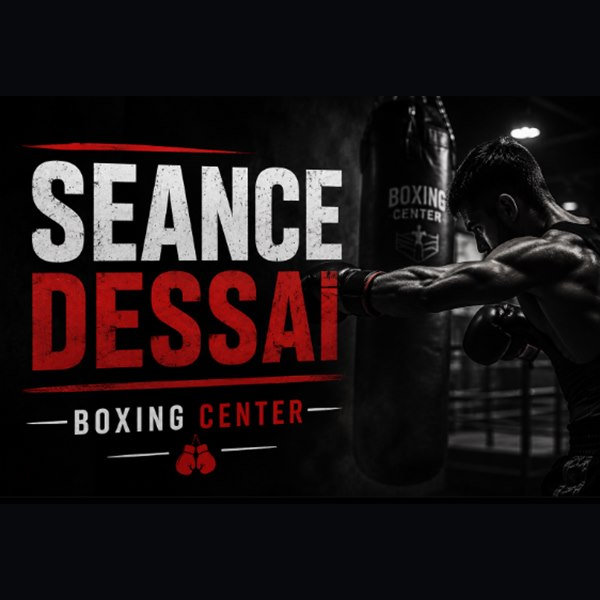
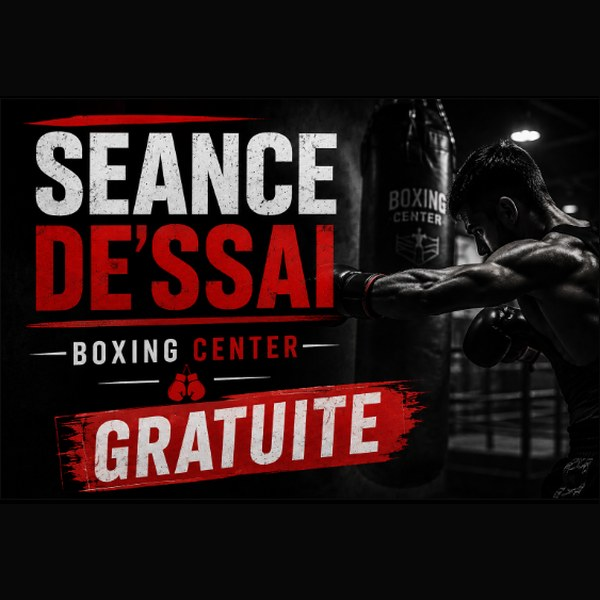
fix: retours copy séance offerte et visuel d'essai Boxing Center

diff --git a/src/js/form.js b/src/js/form.js
@@ -69,7 +69,8 @@ const STEPS = [
   },
   {
     id: "identite", kind: "champs",
-    q: "Comment on t'appelle ?",
+    q: "On t'inscrit sous quel nom ?",
+    why: "Prénom et nom — c'est comme ça qu'on t'appelle dans le coin.",
     fields: [
       { k: "prenom", l: "Prénom", t: "text", ac: "given-name", ph: "Camille" },
       { k: "nom", l: "Nom", t: "text", ac: "family-name", ph: "Durand" },
@@ -77,8 +78,8 @@ const STEPS = [
   },
   {
     id: "contact", kind: "champs",
-    q: "Où on t'envoie la confirmation ?",
-    why: "Un email pour ta confirmation. Un numéro au cas où le planning bouge. On n'appelle pas pour vendre.",
+    q: "Où on t'envoie le laissez-passer ?",
+    why: "Un email pour confirmer. Un numéro si le planning bouge. On n'appelle pas pour vendre.",
     fields: [
       { k: "email", l: "Email", t: "email", ac: "email", ph: "camille@exemple.fr" },
       { k: "tel", l: "Téléphone mobile", t: "tel", ac: "tel", ph: "06 12 34 56 78" },
@@ -106,19 +107,19 @@ const STEPS = [
   {
     id: "ami", kind: "ami", submit: "ami",
     q: "Tu viens avec quelqu'un ?",
-    why: "Ta fiche est en cours de création. Sa séance est offerte aussi — tu peux ajouter quelqu'un maintenant.",
+    why: "Profites-en pour offrir une séance d'essai offerte à un de tes amis, tu peux ajouter quelqu'un maintenant.",
   },
 ];
 
 const AMI_FIELDS = [
   ["a_prenom", "Son prénom", "text", "Alex", "prenom"],
   ["a_nom", "Son nom", "text", "Martin", "nom"],
-  ["a_email", "Son email (si tu le connais)", "email", "alex@exemple.fr", "email_ami"],
-  ["a_tel", "Son mobile", "tel", "06 98 76 54 32", "tel"],
-  ["a_naissance", "Sa date de naissance (si tu la connais)", "date", "", "naissance_ami"],
-  ["a_adresse", "Son adresse (si tu la connais)", "text", "12 rue des Lilas", "adresse_ami"],
-  ["a_cp", "Son code postal", "text", "31000", "cp_ami"],
-  ["a_ville", "Sa ville", "text", "Toulouse", "ville_ami"],
+  ["a_tel", "Son numéro", "tel", "06 98 76 54 32", "tel_ami"],
+  ["a_email", "Son email (si tu l'as)", "email", "alex@exemple.fr", "email_ami"],
+  ["a_naissance", "Sa date de naissance (si tu l'as)", "date", "", "naissance_ami"],
+  ["a_adresse", "Son adresse (si tu l'as)", "text", "12 rue des Lilas", "adresse_ami"],
+  ["a_cp", "Son code postal (si tu l'as)", "text", "31000", "cp_ami"],
+  ["a_ville", "Sa ville (si tu l'as)", "text", "Toulouse", "ville_ami"],
 ];
 
 const RX_MAIL = /^[^\s@]+@[^\s@]+\.[a-z]{2,}$/i;
@@ -137,7 +138,10 @@ function invalid(rule, val) {
       if (!v) return "";
       return RX_MAIL.test(v) ? "" : "Cet email n'a pas l'air valide — tu peux aussi le laisser vide.";
     case "tel":
-      return !v ? "Un numéro de mobile, au cas où le planning change."
+      return !v ? "Un numéro de mobile, au cas où le planning bouge."
+        : !RX_TEL.test(v) ? "Format attendu : 06 12 34 56 78 ou +33 6 12 34 56 78." : "";
+    case "tel_ami":
+      return !v ? "Son numéro, pour lui ouvrir sa séance offerte."
         : !RX_TEL.test(v) ? "Format attendu : 06 12 34 56 78 ou +33 6 12 34 56 78." : "";
     case "naissance":
     case "naissance_ami": {
@@ -217,18 +221,18 @@ function stepBody(st) {
       <em class="field__err" role="alert"></em>
     </div>
     <div class="fields fields--2" id="ami-fields"${aDeux ? "" : " hidden"}>
-      <p class="step__why" style="grid-column:1/-1">Ses infos pour sa propre fiche. Adresse, code postal, ville et date de naissance : seulement si tu les as, sinon on mettra les valeurs par défaut.</p>
+      <p class="step__why" style="grid-column:1/-1">${fr("Pour lui ouvrir sa séance : prénom, nom et numéro, c'est tout ce qu'il faut. Email, date de naissance, adresse : seulement si tu les as.")}</p>
       ${AMI_FIELDS.map(
         ([k, l, t, ph]) =>
           `<label class="field${k === "a_adresse" ? " field--wide" : ""}" data-f="${k}"><span>${esc(l)}</span><input type="${t}" data-k="${k}" ${ph ? `placeholder="${esc(ph)}"` : ""} value="${esc((state.ami && state.ami[k]) || "")}" /><em class="field__err" role="alert"></em></label>`
       ).join("")}
-      <label class="field" data-f="a_sexe"><span>Son sexe</span>
-        <select data-k="a_sexe"><option value="">Choisir…</option>
+      <label class="field" data-f="a_sexe"><span>Son sexe (si tu l'as)</span>
+        <select data-k="a_sexe"><option value="">Pas besoin</option>
           ${[["F", "Femme"], ["H", "Homme"], ["A", "Ne se prononce pas"]]
             .map(([v, l]) => `<option value="${v}"${state.ami && state.ami.a_sexe === v ? " selected" : ""}>${l}</option>`)
             .join("")}
         </select><em class="field__err" role="alert"></em></label>
-      <p class="step__why" style="grid-column:1/-1">Sa salle et son jour reprennent les tiens. Vous pourrez les changer avec l'équipe sur place.</p>
+      <p class="step__why" style="grid-column:1/-1">${fr("Vous n'êtes pas obligés d'arriver ensemble : sa séance reste offerte, même s'il passe un autre jour.")}</p>
     </div>`;
 }
 
@@ -330,6 +334,20 @@ export function mountForm(root, onChange) {
   const pips = [...root.querySelectorAll("#form-pips i")];
   const screens = [...form.querySelectorAll("[data-step]")];
   let started = false;
+  let lastPaintedStep = state.step;
+
+  const scrollEtapeEnHaut = () => {
+    const current =
+      form.querySelector(".step.is-on") ||
+      (state.step >= STEPS.length ? form.querySelector(".done") : null) ||
+      document.getElementById("formulaire");
+    const html = document.documentElement;
+    const prev = html.style.scrollBehavior;
+    html.style.scrollBehavior = "auto";
+    const y = current.getBoundingClientRect().top + window.scrollY - 8;
+    window.scrollTo(0, Math.max(0, y));
+    html.style.scrollBehavior = prev;
+  };
 
   const paint = () => {
     screens.forEach((s) => {
@@ -351,6 +369,10 @@ export function mountForm(root, onChange) {
     const box = form.querySelector("#ami-fields");
     if (box) box.hidden = !aDeux;
     onChange && onChange(state);
+    if (state.step !== lastPaintedStep) {
+      lastPaintedStep = state.step;
+      requestAnimationFrame(scrollEtapeEnHaut);
+    }
   };
 
   const begin = () => {
@@ -412,9 +434,6 @@ export function mountForm(root, onChange) {
       showErr(k, msg);
       if (msg) ok = false;
     });
-    const sx = invalid("sexe", state.ami.a_sexe);
-    showErr("a_sexe", sx);
-    if (sx) ok = false;
     return ok;
   };
 
@@ -435,7 +454,7 @@ export function mountForm(root, onChange) {
       : (jourTxt ? `À ${jourTxt}, ${prenom}.` : `À très vite, ${prenom}.`);
 
     root.querySelector("#done-p").textContent = aDeux
-      ? `${prenom}, vous venez à deux. Ta séance d'essai est enregistrée${salleTxt}, avec ${amiPrenom || "un(e) ami(e)"}. Présentez-vous ensemble à l'accueil en tenue de sport : le matériel est prêté. La séance de ${amiPrenom || "ton ami(e)"} est offerte aussi.`
+      ? `${prenom}, ta séance d'essai est enregistrée${salleTxt}, et celle de ${amiPrenom || "ton ami(e)"} aussi. Vous n'êtes pas obligés d'arriver ensemble : sa séance reste offerte, même s'il passe un autre jour. Tenue de sport, le matériel est prêté.`
       : `${prenom}, tu viens seul. Ta séance d'essai est enregistrée${salleTxt}. Présente-toi à l'accueil en tenue de sport : le matériel est prêté.`;
 
     root.querySelector("#done-recap").innerHTML = [
@@ -452,7 +471,7 @@ export function mountForm(root, onChange) {
     const note = root.querySelector("#done-note");
     if (note) {
       note.textContent = aDeux
-        ? "Un email de confirmation part vers chacune de vos boîtes. Présentez-vous ensemble à l'accueil : les deux séances sont offertes, habituellement à 10 €."
+        ? "Un email part vers chacune de vos boîtes. Les deux séances sont offertes, habituellement à 10 € — même si vous ne venez pas le même jour."
         : "Un email de confirmation part vers ta boîte. Présente-toi à l'accueil : tu viens seul, la séance est offerte, habituellement à 10 €.";
     }
 

diff --git a/lib/email.js b/lib/email.js
@@ -54,10 +54,10 @@ function confirmationHeadline({ prenom, jourNom, amiPrenom, hostPrenom }) {
 function confirmationLead({ prenom, salleLabel, amiPrenom, hostPrenom }) {
   const salle = salleLabel ? ` à ${salleLabel}` : '';
   if (hostPrenom) {
-    return `${prenom}, ce n’est pas un mail de confirmation pour ${hostPrenom} : c’est le tien. ${hostPrenom} vient de t’inscrire à une séance d’essai offerte${salle}. Tu n’as rien à régler. Présentez-vous ensemble à l’accueil.`;
+    return `${prenom}, ${hostPrenom} vient de t’offrir une séance d’essai${salle}. Tu n’as rien à régler. Vous n’êtes pas obligés de venir le même jour : ta séance reste offerte, même si tu passes un autre moment.`;
   }
   if (amiPrenom) {
-    return `${prenom}, ta séance d’essai est confirmée${salle}, avec ${amiPrenom}. ${amiPrenom} reçoit un mail d’invitation de son côté — pas le même que celui-ci.`;
+    return `${prenom}, ta séance d’essai est confirmée${salle}, et celle de ${amiPrenom} aussi. ${amiPrenom} reçoit son propre mail. Vous n’êtes pas obligés d’arriver ensemble : sa séance reste offerte.`;
   }
   return `Ta séance d’essai est enregistrée${salle}.`;
 }
@@ -100,7 +100,7 @@ export function confirmationText(input = {}) {
       `Jour prévu : ${jourLabel}`,
       'À régler : 0 €',
       '',
-      'Présentez-vous ensemble à l’accueil, en tenue de sport. Le matériel est prêté.',
+      'Présente-toi à l’accueil en tenue de sport. Le matériel est prêté. Une bouteille d’eau suffit. Vous n’êtes pas obligés de venir le même jour : ta séance reste offerte.',
       '',
       'L’équipe Boxing Center',
     ].join('\n');
@@ -116,7 +116,9 @@ export function confirmationText(input = {}) {
     '',
     'À régler sur place : 0 € — au lieu de 10 €.',
     '',
-    'Présente-toi à l’accueil en tenue de sport. Le matériel est prêté. Une bouteille d’eau suffit.',
+    amiPrenom
+      ? 'Présente-toi à l’accueil en tenue de sport. Le matériel est prêté. Une bouteille d’eau suffit. Vous n’êtes pas obligés d’arriver ensemble : sa séance reste offerte, même s’il passe un autre jour.'
+      : 'Présente-toi à l’accueil en tenue de sport. Le matériel est prêté. Une bouteille d’eau suffit.',
     '',
     'L’équipe Boxing Center',
   ].join('\n');
@@ -199,7 +201,7 @@ export function confirmationHtml(input = {}) {
           </tr>
           <tr>
             <td style="padding:0 32px 28px;font-family:Arial,Helvetica,sans-serif;font-size:14px;line-height:1.6;color:#c8cdd8;">
-              ${guest ? 'Présentez-vous ensemble à l\'accueil. L\'équipe vous attend.' : 'Présente-toi à l\'accueil. L\'équipe t\'attend.'}
+              ${guest ? 'Tu n’es pas obligé(e) de venir le même jour que la personne qui t’a inscrit(e) : ta séance reste offerte. L’équipe t’attend.' : 'Présente-toi à l\'accueil. L\'équipe t\'attend.'}
             </td>
           </tr>
           <tr>

diff --git a/test/email.test.js b/test/email.test.js
@@ -23,7 +23,7 @@ describe('mail de confirmation', () => {
     const payload = confirmationPayloadFromData(data);
     const html = confirmationHtml(payload);
     assert.match(html, /À lundi, Yavol et Gojipe/);
-    assert.match(html, /avec Gojipe/);
+    assert.match(html, /avec Gojipe|et celle de Gojipe/);
     assert.match(html, /0 €/);
     assert.match(html, /Boxing Center Ramonville/);
     assert.match(html, /Lundi \(17\/08\/2026\)/);
@@ -38,7 +38,8 @@ describe('mail de confirmation', () => {
     const payload = confirmationPayloadFromData(data, { asFriend: true });
     const html = confirmationHtml(payload);
     assert.match(html, /Yavol t’a inscrit/);
-    assert.match(html, /Gojipe, ce n’est pas un mail de confirmation pour Yavol/);
+    assert.match(html, /offrir une séance d’essai/);
+    assert.match(html, /pas obligés de venir le même jour/);
     assert.match(html, /Invitation — séance offerte/);
     assert.match(html, /Inscrit\(e\) par/);
     assert.doesNotMatch(html, />Accompagné</);
@@ -46,7 +47,7 @@ describe('mail de confirmation', () => {
     assert.notEqual(confirmationSubject(payload), confirmationSubject(host));
     assert.notEqual(confirmationHtml(payload), confirmationHtml(host));
     assert.match(confirmationSubject(payload), /Yavol t’a inscrit/);
-    assert.match(confirmationText(payload), /t’inscrire/);
+    assert.match(confirmationText(payload), /t’offrir une séance/);
   });
 
   it('HTML solo : un seul prénom', () => {

diff --git a/index.html b/index.html
@@ -124,7 +124,7 @@
         {
           "@type": "Question",
           "name": "Peut-on venir accompagné à la séance d'essai ?",
-          "acceptedAnswer": { "@type": "Answer", "text": "Oui. Tu peux venir accompagné, et la séance de la personne qui vient avec toi est offerte aussi." }
+          "acceptedAnswer": { "@type": "Answer", "text": "Oui. Tu peux offrir une séance d'essai à un ami : sa séance est offerte aussi. Vous n'êtes pas obligés de venir le même jour : sa séance reste offerte, même s'il passe un autre moment." }
         },
         {
           "@type": "Question",
@@ -207,7 +207,7 @@
     <div class="dock__in">
       <div class="dock__state">
         <span class="dock__price"><s>10 €</s><b>0 €</b></span>
-        <span class="dock__meta" id="dock-meta">2 min · sans engagement</span>
+        <span class="dock__meta" id="dock-meta">sans engagement</span>
       </div>
       <button type="button" class="btn btn--primary dock__cta" data-open-form>
         Je réserve ma séance<span class="btn__arrow" aria-hidden="true"></span>

diff --git a/test/e2e/seance-offerte.spec.js b/test/e2e/seance-offerte.spec.js
@@ -116,9 +116,9 @@ test.describe('tunnel inscription', () => {
     await expect(page.locator('#done-h')).toContainText(/Camille et Alex/i, { timeout: 15000 });
     expect(payloads.at(-1)?.ami?.prenom).toBe('Alex');
     expect(payloads.at(-1)?.ami?.naissance || '').toBe('');
-    await expect(page.locator('#done-p')).toContainText(/vous venez à deux/i);
+    await expect(page.locator('#done-p')).toContainText(/reste offerte/i);
     await expect(page.locator('#done-recap dd').nth(3)).toContainText(/Oui — tu viens avec Alex/i);
-    await expect(page.locator('#done-note')).toContainText(/ensemble/i);
+    await expect(page.locator('#done-note')).toContainText(/même jour|offertes/i);
     const photo = page.locator('#done-media img');
     await expect(photo).toBeVisible();
     await expect(photo).toHaveAttribute('src', /seance-essai-gratuite/);

diff --git a/src/js/data.js b/src/js/data.js
@@ -11,7 +11,7 @@ export const OFFRE = {
   prixHabituel: "10 €",
   prixOffert: "0 €",
   ctaPrimaire: "Je réserve ma séance offerte",
-  dockNote: "2 min · sans engagement",
+  dockNote: "sans engagement",
   /* C1 — le réseau garde l'essai à 10 €. Sans cette phrase, le 0 € de
      cette page détruit le tarif des cinq salles. */
   cadrageTitre: "Pourquoi celle-ci est offerte",
@@ -57,7 +57,7 @@ export const HEROS = {
     kicker: "Tu as scanné. Voici ton laissez-passer.",
     titre: ["Ta séance", "est offerte."],
     lede:
-      "Ce titre d'accès vaut une séance d'essai dans la salle de ton choix. Il se complète en deux minutes et t'attend à l'accueil.",
+      "Ce titre d'accès vaut une séance d'essai dans la salle de ton choix. Il t'attend à l'accueil.",
     img: "femme-garde",
   },
   c: {

diff --git a/src/js/main.js b/src/js/main.js
@@ -321,9 +321,9 @@ function inscriptionHTML(dir) {
     <span class="sect__mark" aria-hidden="true">05</span>
     <div class="shell">
       <div class="sect__head" data-rv>
-        <span class="eyebrow" data-round="Dernier round">Deux minutes</span>
+        <span class="eyebrow" data-round="Dernier round">Ta place dans le coin</span>
         <h2>${lignes(dir === "b" ? "Complète<br>ton laissez-passer." : "Prends ta place<br>dans le coin.")}</h2>
-        <p>${fr("Six écrans courts. Les deux premiers se touchent — on ne tape rien avant d'avoir dit oui deux fois. Tu peux revenir en arrière à tout moment.")}</p>
+        <p>${fr("Salle, jour, puis tes infos. Tu peux revenir en arrière à tout moment.")}</p>
       </div>
       <div class="form-layout" data-rv>
         ${formHTML()}

diff --git a/test/inscription.test.js b/test/inscription.test.js
@@ -53,6 +53,15 @@ describe('validateInscription', () => {
     assert.equal(r.data.ami.email, '');
   });
 
+  it('accepte un ami avec seulement prénom, nom et numéro', () => {
+    const r = validateInscription({
+      ...base,
+      ami: { prenom: 'Alex', nom: 'Martin', tel: '06 98 76 54 32' },
+    });
+    assert.equal(r.ok, true, errorMessage(r.errors));
+    assert.equal(r.data.ami.sexe, 'A');
+  });
+
   it('refuse un email principal mal formé', () => {
     const bad = validateInscription({ ...base, email: 'pas-un-mail' });
     assert.equal(bad.ok, false);

diff --git a/lib/inscription.js b/lib/inscription.js
@@ -87,7 +87,7 @@ export function applyFriendDefaults(ami = {}) {
     nom: clean(ami.nom || ami.a_nom || ami.last_name),
     email: parseOptionalEmail(ami.email || ami.a_email).email,
     tel: normalizePhone(ami.tel || ami.a_tel || ami.phone),
-    sexe: clean(ami.sexe || ami.a_sexe || ami.gender, 4).toUpperCase(),
+    sexe: (clean(ami.sexe || ami.a_sexe || ami.gender, 4).toUpperCase() || 'A'),
     naissance: birthdate || FRIEND_DEFAULT_BIRTHDATE,
     birthdate_defaulted: !birthdate,
     address_defaulted: !isCompleteAddress(provided),
